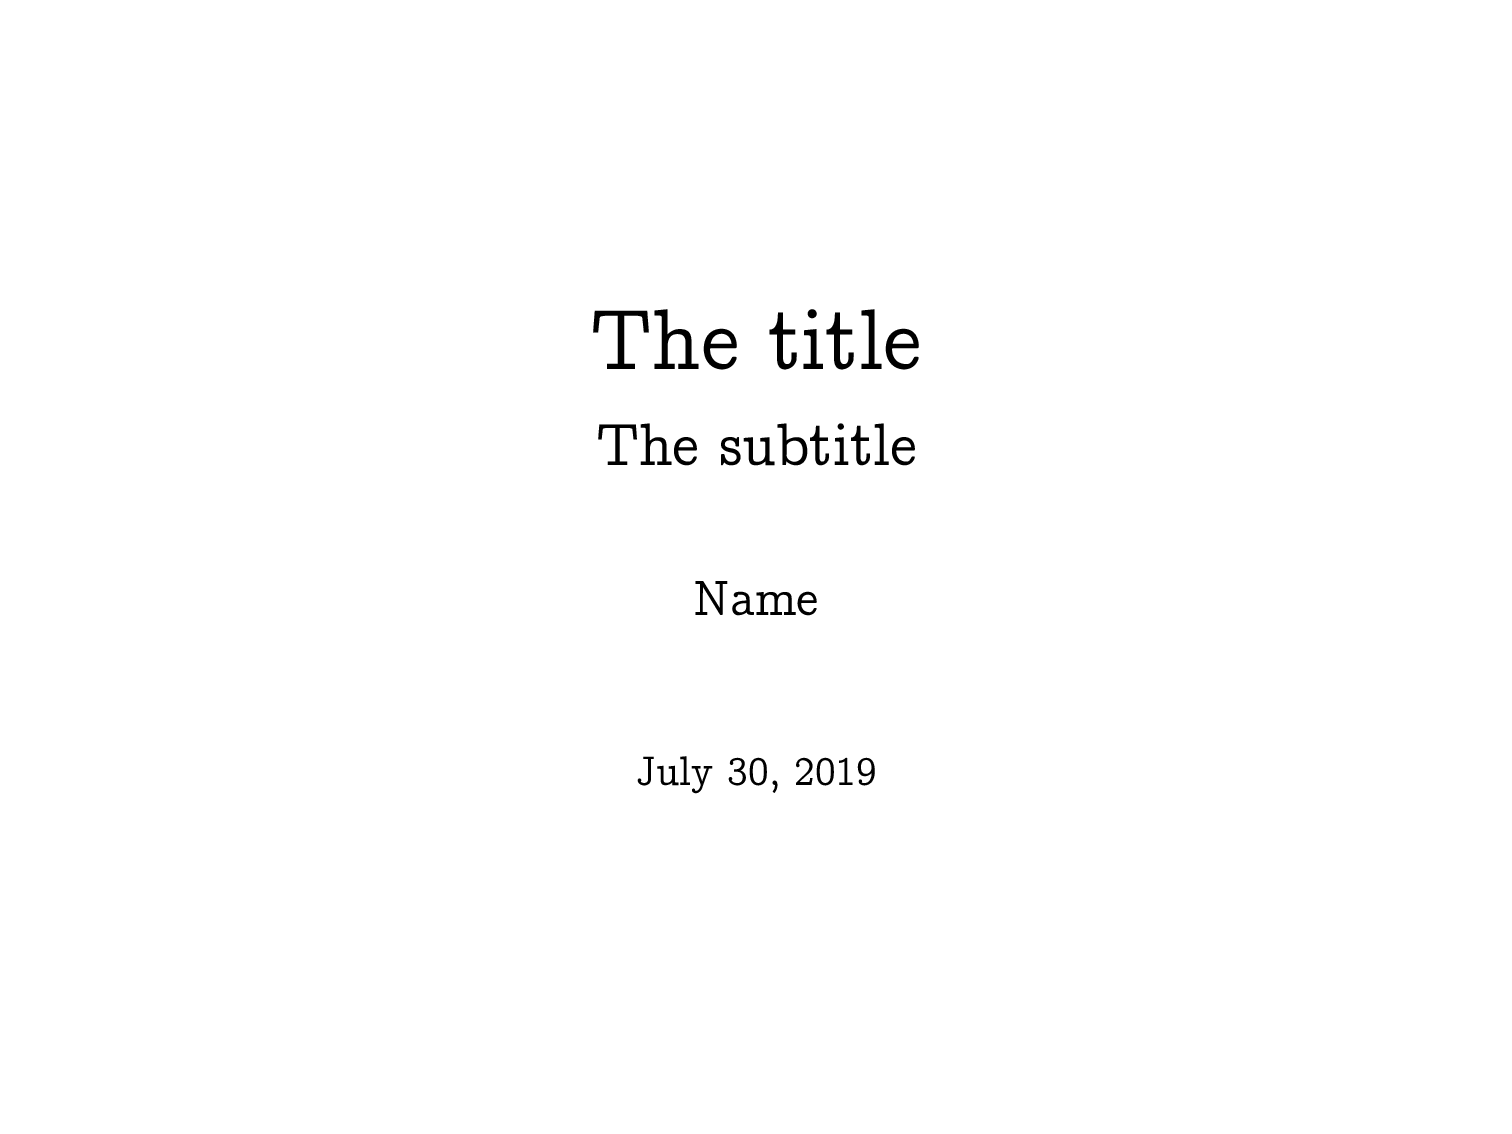
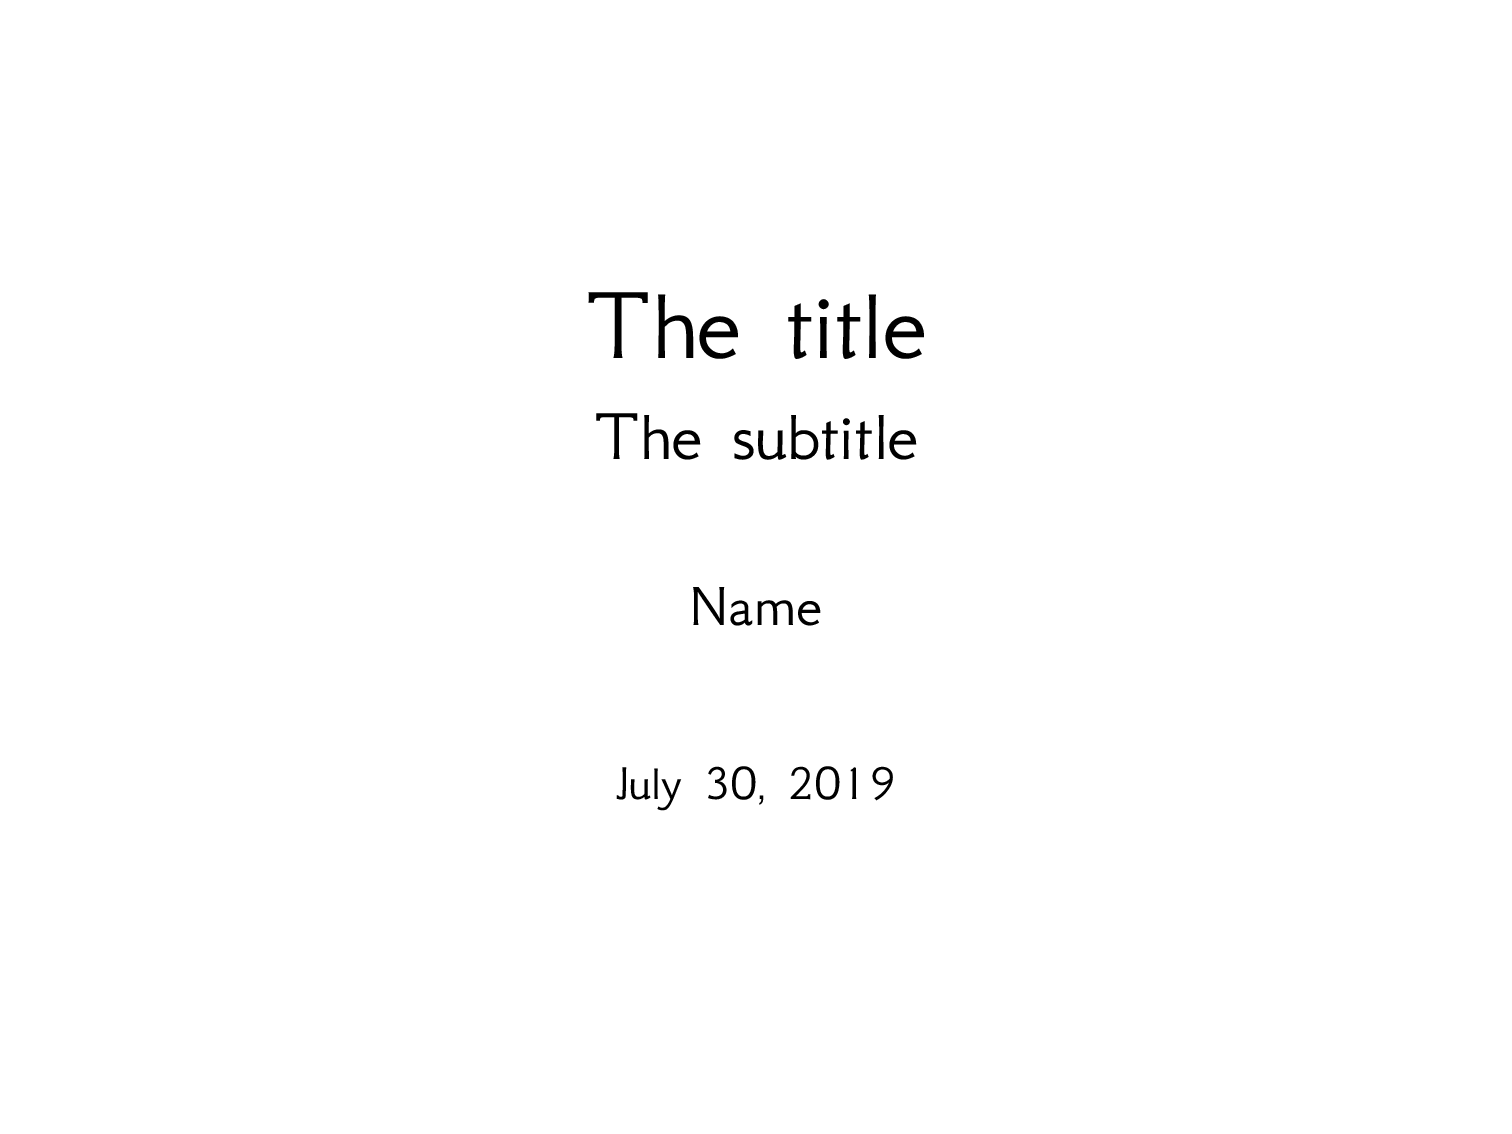
Modified font to GFS Neohellenic

Changed region(s): [[0.373, 0.2469, 0.6217, 0.4321], [0.4041, 0.6481, 0.5906, 0.7099], [0.4352, 0.5247, 0.5595, 0.5556]]

diff --git a/default.tex b/default.tex
@@ -31,6 +31,8 @@
 		h(t) = \lim_{\Delta_t \to 0} \frac{P(t \le T < t + \Delta_t | T \ge t)}{\Delta_t}
 	\]
 
+	Some text using the \texttt{typewriter font}.
+
 \end{frame}
 
 \end{document}

diff --git a/README.md b/README.md
@@ -2,7 +2,7 @@
 
 A streamlined beamer template based on the default theme.
 
-This theme is completely black and white, and it uses [Computer Concrete with Concrete Math](https://tug.org/FontCatalogue/computerconcrete/) as fonts of choice.
+This theme is completely black and white, and it uses [GFS Neohellenic](https://tug.org/FontCatalogue/gfsneohellenic/) as font of choice.
 
 ## Using the theme
 
